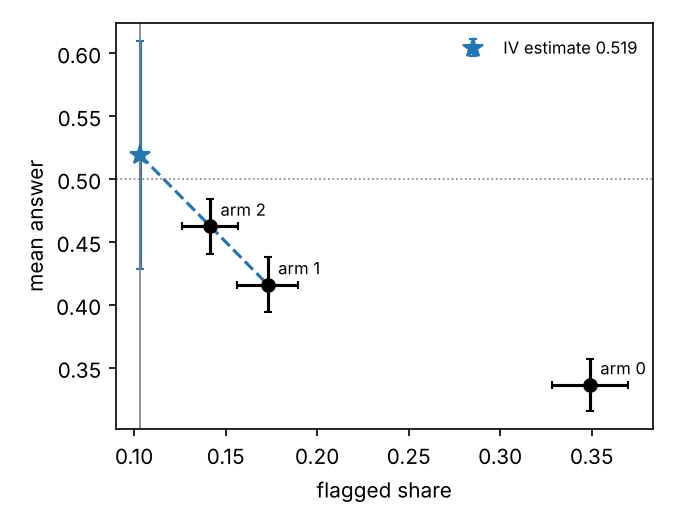
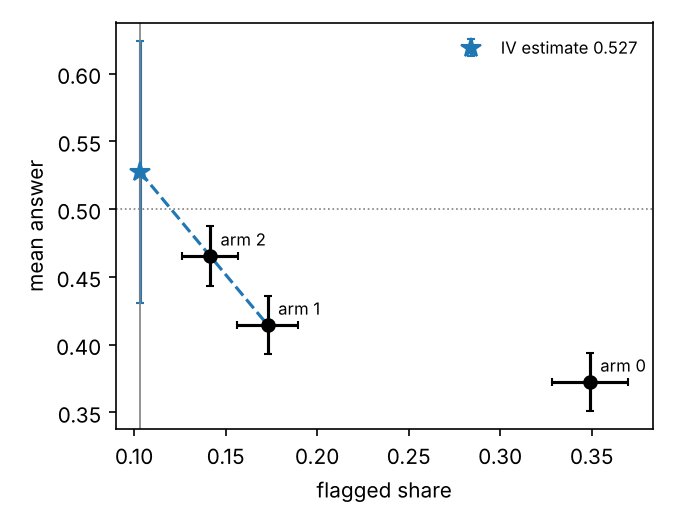
Fix two edge cases, match the paper's numbering, and pin the data version
- bounds: equal mean answers in arms 0 and 1 no longer impose a monotone-response bound
- human_coding_probs: spread the budget again after the caps at 1 and at the floor
- tests/test_edge_cases.py: regression tests for both (16 tests)
- README, docstrings, tutorial, and Lean comments use the paper's numbering
  (Proposition 1, Theorem 1(i)-(iv), Theorem 2, Theorem 3, Lemmas D1, G1, H1)
- download_data.py pins Kaggle version 11 and checks the SHA-256 of the CSV
- regenerate the tutorial output and tests/RESULTS.md

diff --git a/paper/replication/download_data.py b/paper/replication/download_data.py
@@ -1,10 +1,11 @@
-"""Put the Glassdoor reviews (Kaggle davidgauthier/glassdoor-job-reviews) at data/glassdoor_reviews.csv and check
-that the shipped AI answers are in data/ai_answers/.
+"""Put the Glassdoor reviews (Kaggle davidgauthier/glassdoor-job-reviews, version 11) at data/glassdoor_reviews.csv,
+check the file against its SHA-256, and check that the shipped AI answers are in data/ai_answers/.
 
     python3 download_data.py                 # download with kagglehub
     python3 download_data.py --csv FILE      # use a copy of glassdoor_reviews.csv downloaded by hand
 """
 import argparse
+import hashlib
 import shutil
 import sys
 from pathlib import Path
@@ -12,6 +13,8 @@ from pathlib import Path
 HERE = Path(__file__).resolve().parent
 DATA = HERE / "data"
 CSV = DATA / "glassdoor_reviews.csv"
+VERSION = "davidgauthier/glassdoor-job-reviews/versions/11"
[1 lines of base64/hex data omitted]
 AI_FILES = ["references.jsonl.gz", "replacements.jsonl.gz", "twins.jsonl.gz"]
 
 ap = argparse.ArgumentParser()
@@ -23,15 +26,23 @@ if args.csv:
 else:
     try:
         import kagglehub
-        src = Path(kagglehub.dataset_download("davidgauthier/glassdoor-job-reviews")) / "glassdoor_reviews.csv"
+        src = Path(kagglehub.dataset_download(VERSION)) / "glassdoor_reviews.csv"
     except Exception as err:
         sys.exit(f"kagglehub download failed ({err}).\nDownload glassdoor_reviews.csv by hand from "
-                 "https://www.kaggle.com/datasets/davidgauthier/glassdoor-job-reviews and run\n"
+                 "https://www.kaggle.com/datasets/davidgauthier/glassdoor-job-reviews (version 11) and run\n"
                  "    python3 download_data.py --csv /path/to/glassdoor_reviews.csv")
 DATA.mkdir(exist_ok=True)
 if src.resolve() != CSV.resolve():
     shutil.copyfile(src, CSV)
 print(f"reviews: {CSV} ({CSV.stat().st_size / 1e6:.0f} MB)")
+h = hashlib.sha256()
+with open(CSV, "rb") as f:
+    for block in iter(lambda: f.read(1 << 20), b""):
+        h.update(block)
+if h.hexdigest() == SHA256:
+    print("SHA-256 matches version 11")
+else:
+    print(f"warning: SHA-256 {h.hexdigest()} differs from version 11 ({SHA256}); Table 2 may not reproduce")
 
 missing = [f for f in AI_FILES if not (DATA / "ai_answers" / f).exists()]
 if missing:

diff --git a/src/aicontam/coding.py b/src/aicontam/coding.py
@@ -1,4 +1,4 @@
-"""Coding open-ended answers with an LLM, corrected by a random human-coded subset (Lemma coding).
+"""Coding open-ended answers with an LLM, corrected by a random human-coded subset (Lemma H1).
 
 Each answer is sent to a human coder with a known probability pi_i (xi_i = 1 if it was). The
 pseudo-outcome
@@ -19,18 +19,29 @@ def human_coding_probs(z, budget, lam, arms=None, floor=0.02):
 
     The estimate from arms (a, b) is (1 + lam) G_b - lam G_a, so its variance falls fastest
     when pi is proportional to the arm weight: 1 + lam in arm b and lam in arm a. Other arms
-    get `floor`. `budget` is the expected share of all answers coded by humans; `lam` is a
-    pilot value of lambda = (S_b - FPR)/(S_a - S_b).
+    get `floor`. Probabilities are capped at 1 and kept at least `floor`, and the rest of the
+    budget is spread in proportion to the weights, so the mean of pi equals `budget`, the
+    expected share of all answers coded by humans. `lam` is a pilot value of
+    lambda = (S_b - FPR)/(S_a - S_b).
     """
     z = np.asarray(z)
     a, b = arms if arms is not None else (z.max() - 1, z.max())
     w = np.where(z == b, 1 + lam, np.where(z == a, lam, 0.0))
-    pi = np.full(len(z), floor)
-    free = budget * len(z) - floor * np.sum(w == 0)
-    if free <= 0:
-        raise ValueError("budget too small for the floor")
-    pi[w > 0] = np.minimum(1, w[w > 0] * free / w.sum())
-    return np.maximum(pi, floor)
+    lo, hi = floor, np.mean(np.where(w > 0, 1.0, floor))
+    if not lo <= budget <= hi:
+        raise ValueError(f"budget must lie in [{lo:.4f}, {hi:.4f}] for this floor and these arms")
+
+    def probs(c):
+        return np.where(w > 0, np.clip(c * w, floor, 1.0), floor)
+
+    # pi = clip(c w, floor, 1); the mean rises with c, so bisection finds the c that spends the budget.
+    c_lo, c_hi = 0.0, 1.0
+    while probs(c_hi).mean() < budget:
+        c_hi *= 2
+    for _ in range(200):
+        c = (c_lo + c_hi) / 2
+        c_lo, c_hi = (c, c_hi) if probs(c).mean() < budget else (c_lo, c)
+    return probs(c_hi)
 
 
 def draw_human_coding(pi, seed=None):

diff --git a/src/aicontam/bounds.py b/src/aicontam/bounds.py
@@ -1,10 +1,11 @@
-"""Bounds of Theorem 2(ii)-(iv) when the effect of AI is not homogeneous.
+"""Bounds of Theorem 1(ii)-(iv) when the effect of AI is not homogeneous.
 
 (ii) bounded outcome (Manski): needs TPR and a detector that errs at the same rates for
      everyone, whatever the answer. For every arm z,
      E[g(Y(0),X)] in [G_z + alpha_z (g_min - A_z), G_z + alpha_z (g_max - A_z)],
      with alpha_z = (S_z - FPR)/(TPR - FPR) and A_z = (H_z - FPR G_z)/(S_z - FPR), H_z = E[g S | z].
 (iii) monotone treatment response: G_0 < G_1 gives E[g(Y(0),X)] >= G_M, and G_0 > G_1 gives <= G_M.
+     G_0 = G_1 gives no direction, so (iii) bounds nothing.
 (iv) monotone treatment selection (M >= 2): arm M-1 below the line through arms M-2 and M
      gives E[g(Y(0),X)] >= theta_{M-1,M}; above gives <=.
 """
@@ -30,8 +31,9 @@ def _bounds_from_arms(A, fpr, tpr, gmin, gmax):
             Az = (arm.H - fpr * arm.G) / (arm.Sbar - fpr)
             rows[f"(ii) arm {z}"] = (arm.G + alpha * (gmin - Az), arm.G + alpha * (gmax - Az))
     lo, hi = np.full(K, -np.inf), np.full(K, np.inf)
-    up = A[0].G < A[1].G
-    rows["(iii) MTR"] = (np.where(up, A[M].G, -np.inf), np.where(up, np.inf, A[M].G))
+    # Only a strict difference between arms 0 and 1 reveals the direction; equal means bound nothing.
+    up, down = A[0].G < A[1].G, A[0].G > A[1].G
+    rows["(iii) MTR"] = (np.where(up, A[M].G, -np.inf), np.where(down, A[M].G, np.inf))
     if M >= 2:
         a, m, b = A[M - 2], A[M - 1], A[M]
         line = b.G + (a.G - b.G) * (m.Sbar - b.Sbar) / (a.Sbar - b.Sbar)
@@ -77,7 +79,7 @@ class BoundsResult:
 
 def bounds(y, s, z, fpr, tpr=None, gmin=0.0, gmax=1.0, n_boot=0, level=0.95, seed=0,
            categorical=None, categories=None):
-    """Bounds of Theorem 2(ii)-(iv) and their intersection.
+    """Bounds of Theorem 1(ii)-(iv) and their intersection.
 
     With `n_boot > 0`, each endpoint also gets a one-sided bootstrap confidence bound (the
     lower endpoint's lower quantile and the upper endpoint's upper quantile, each at

diff --git a/tests/test_edge_cases.py b/tests/test_edge_cases.py
@@ -1,0 +1,36 @@
+"""Two edge cases: equal means in arms 0 and 1, and a human-coding budget that hits the caps."""
+
+import numpy as np
+import pytest
+
+import aicontam as ac
+
+
+def test_mtr_equal_means_bound_nothing():
+    # Arms 0 and 1 have the same mean answer (0), so Theorem 1(iii) gives no direction.
+    # A population consistent with these moments: alpha_0 = 0.3, alpha_1 = 0.1, the 10% who use
+    # AI in both arms have Y(0) = 1 and Y(1) = 0, everyone else has Y(0) = Y(1) = 0. AI never
+    # raises an answer, yet the truth is 0.1, so (iii) must not cap the target at G_M = 0.
+    n = 1000
+    y = np.zeros(2 * n)
+    z = np.repeat([0, 1], n)
+    s = np.r_[np.arange(n) < 340, np.arange(n) < 180].astype(float)
+    r = ac.bounds(y, s, z, fpr=0.1, tpr=0.9).rows
+    lo, hi = r["(iii) MTR"]
+    assert np.isneginf(lo[0]) and np.isposinf(hi[0])
+    assert np.allclose(np.r_[r["intersection"]], [0.0, 0.1])
+
+
+def test_coding_budget_spent_after_caps():
+    # Probabilities are capped at 1 (first case) or raised to the floor (second case); the rest
+    # of the budget is spread again, so the mean of pi still equals the budget.
+    z = np.repeat([0, 1], 1000)
+    for budget, lam in [(0.9, 1.0), (0.02, 0.01), (0.3, 1.0)]:
+        pi = ac.human_coding_probs(z, budget=budget, lam=lam)
+        assert pi.mean() == pytest.approx(budget, abs=1e-9)
+        assert pi.min() >= 0.02 and pi.max() <= 1
+
+
+def test_coding_budget_out_of_range():
+    with pytest.raises(ValueError):
+        ac.human_coding_probs(np.repeat([0, 1, 2], 100), budget=0.9, lam=1.0)

diff --git a/examples/batball_tutorial.py b/examples/batball_tutorial.py
@@ -17,7 +17,7 @@ plan = ac.plan_sample_size(0.02, alpha=(0.30, 0.05), mu=0.5, ai_mean=0.0, fpr=0.
                            shares=(0.5, 0.5), m=300)
 print("1. Design:", plan)
 
-# Three arms make Theorem 2(iv) and the homogeneity test possible.
+# Three arms make Theorem 1(iv) and the homogeneity test possible.
 z = ac.assign_arms(6000, [1 / 3, 1 / 3, 1 / 3], seed=1)
 print("   arms assigned:", [int((z == a).sum()) for a in range(3)])
 
@@ -37,13 +37,14 @@ print("\n   Is the middle arm on the line? (homogeneity test)\n",
       ac.homogeneity_test(d.wrong, d.flagged, d.arm, n_boot=499))
 
 # The drop from arm 1 to arm 2 is small (t below 3), so the Anderson-Rubin set is the one to
-# report. The middle arm lies below the line, so the curve is convex: Theorem 2(iv) applies.
+# report. The middle arm lies below the line. If beta(v) is monotone, the curve is then
+# convex, and Theorem 1(iv) applies.
 
 # 5. Estimate. The truth is 50% wrong. No correction and deletion are biased downward.
 print("\n5.", ac.friction_iv(d.wrong, d.flagged, d.arm, fpr))
 print("\n   Three methods side by side:\n", ac.compare(d.wrong, d.flagged, d.arm, fpr))
 
-# 6. Bounds that do not assume homogeneity (Theorem 2(ii)-(iv)). In the population of
+# 6. Bounds that do not assume homogeneity (Theorem 1(ii)-(iv)). In the population of
 #    Figure 1 they are [0.49, 0.51]; the ci columns account for sampling noise.
 tpr = ac.Rate(0.9, 300)  # TPR from 300 AI answers
 print("\n6. Bounds:\n", ac.bounds(d.wrong, d.flagged, d.arm, fpr, tpr, n_boot=499))

diff --git a/src/aicontam/estimate.py b/src/aicontam/estimate.py
@@ -1,4 +1,4 @@
-"""The IV estimator of Theorem 2(i), its standard error, and the Anderson-Rubin set (Theorem 3).
+"""The IV estimator of Theorem 1(i), its standard error, and the Anderson-Rubin set (Theorem 2).
 
 Notation follows the paper. Arm z has flagged share S_z and mean answer G_z. The estimate
 from arms a (weaker friction) and b (stronger friction) is the height at FPR of the line
@@ -95,7 +95,7 @@ class IVResult:
 
 
 def friction_iv(y, s, z, fpr, arms=None, level=0.95, categorical=None, categories=None):
-    """IV estimate of the distribution of human answers (Theorem 2(i)).
+    """IV estimate of the distribution of human answers (Theorem 1(i)).
 
     Parameters
     ----------
@@ -130,7 +130,7 @@ def no_correction(y, categorical=None, categories=None):
 
 
 def delete_flagged(y, s, categorical=None, categories=None):
-    """Mean of the answers the detector does not flag (biased: Theorem 1)."""
+    """Mean of the answers the detector does not flag (biased: Proposition 1)."""
     from ._data import outcome_matrix
     Y, labels = outcome_matrix(y, categorical, categories)
     kept = Y[np.asarray(s) == 0]

diff --git a/tests/report.py b/tests/report.py
@@ -65,3 +65,17 @@ truth = np.mean(np.where(c == 1, 0.7, 0.2))
 r = ac.latent_ipw(np.column_stack([target] + other), s, 0.1, 0.9, ai_free=(1, 2, 3), seed=1)
 print(f"- Latent class IPW (truth {100 * truth:.1f}%): IPW {100 * r.ipw[1]:.1f}%, "
       f"delete flagged {100 * target[s == 0].mean():.1f}%, no correction {100 * target.mean():.1f}%")
+
+print("\n## Edge cases\n")
+n = 1000
+y0 = np.zeros(2 * n)
+z0 = np.repeat([0, 1], n)
+s0 = np.r_[np.arange(n) < 340, np.arange(n) < 180].astype(float)
+r0 = ac.bounds(y0, s0, z0, fpr=0.1, tpr=0.9).rows
+lo, hi = r0["intersection"]
+print(f"- Equal means in arms 0 and 1 (both 0, flagged 0.34 and 0.18): no monotone-response bound; "
+      f"intersection [{lo[0]:.2f}, {hi[0]:.2f}], which contains a consistent truth of 0.10")
+zc = np.repeat([0, 1], 1000)
+spent = [f"budget {b} -> mean pi {ac.human_coding_probs(zc, budget=b, lam=l).mean():.4f}"
+         for b, l in [(0.9, 1.0), (0.02, 0.01), (0.3, 1.0)]]
+print("- Human-coding budget after the caps: " + "; ".join(spent))

diff --git a/src/aicontam/datasets.py b/src/aicontam/datasets.py
@@ -28,7 +28,7 @@ def simulate_batball(n=3000, arm_shares=(1 / 3, 1 / 3, 1 / 3), wrong=None, ai_wr
     `flagged` and, for teaching, the hidden columns `type`, `uses_ai`, `wrong_without_ai`.
 
     `wrong` overrides the four types' error rates without AI; equal rates make the effect of
-    AI homogeneous (Theorem 2(i) holds exactly). `arms` takes an assignment from
+    AI homogeneous (Theorem 1(i) holds exactly). `arms` takes an assignment from
     `assign_arms` instead of drawing one from `arm_shares`.
     """
     from .design import assign_arms
@@ -69,7 +69,7 @@ def pre_ai_signals(m=300, fpr=0.1, seed=None):
 
 
 def deletion_bias(y0, y1, w, s):
-    """The two terms of Theorem 1 in data where the potential answers are known (a simulation).
+    """The two terms of Proposition 1 in data where the potential answers are known (a simulation).
 
     Returns (AI answers kept, human answers selected); their sum is the bias of deleting
     flagged answers.

diff --git a/src/aicontam/diagnose.py b/src/aicontam/diagnose.py
@@ -50,9 +50,9 @@ def _gaps(A):
 def homogeneity_test(y, s, z, n_boot=999, seed=0, categorical=None, categories=None):
     """With three or more arms, test that every middle arm lies on the line through its neighbors.
 
-    Under homogeneity (Theorem 2(i)) all arms lie on one line. A gap far from zero rejects it;
-    its sign says whether the curve is convex (arm below) or concave (arm above), which
-    Theorem 2(iv) uses. Standard errors come from a bootstrap within arms.
+    Under homogeneity (Theorem 1(i)) all arms lie on one line. A gap far from zero rejects it.
+    If beta(v) is monotone, its sign says whether the curve is convex (arm below) or concave
+    (arm above), which Theorem 1(iv) uses. Standard errors come from a bootstrap within arms.
     """
     Y, S, z, labels = prepare(y, s, z, categorical, categories)
     if z.max() < 2:

diff --git a/src/aicontam/latent.py b/src/aicontam/latent.py
@@ -1,4 +1,4 @@
-"""Weighting without an instrument: IPW under latent ignorability (Theorem latent, Appendix G).
+"""Weighting without an instrument: IPW under latent ignorability (Theorem 3, Appendix G).
 
 A latent class model treats each participant's class C and AI use W as unobserved. Given the
 state (C, W), the answers to the J questions are independent, and the signal follows the
@@ -9,7 +9,7 @@ holds within a class: the human answer does not depend on W given C. The model i
 
     E[omega_IPW | O_i] = sum_c Pr(W = 0, C = c | O_i) / (1 - e(c)),   e(c) = Pr(W = 1 | C = c),
 
-identifies the distribution of human answers (Theorem latent (b)). This module is a
+identifies the distribution of human answers (Theorem 3(b)). This module is a
 prototype: it handles discrete answers and no covariates (fit it within strata of X).
 """
 

diff --git a/paper/README.md b/paper/README.md
@@ -2,7 +2,7 @@
 
 This folder accompanies *Dealing with AI Contamination in Behavioral Research*. It has two parts.
 
-- `lean/`: a Lean 4 project that checks with Mathlib every result of the paper whose proof is exact algebra or finite probability, and every number in Figure 1.
+- `lean/`: a Lean 4 project that checks with Mathlib the exact algebra and finite-probability steps of the paper's results listed below, and every number in Figure 1. The list after the table gives what is not formalized.
 - `replication/`: the Python code that rebuilds the Glassdoor test bed and reproduces Table 2.
 
 ## Lean
@@ -18,35 +18,35 @@ lake build                      # checks every proof
 lake env lean AxiomAudit.lean   # prints the axioms
 ```
 
-**Model.** The population is a finite set of participant types with weights `p`, so every expectation is a finite sum and every statement is exact. A function `g(Y, X)` enters as real-valued maps, so the results hold for every `g`. A conditional mean is `E[f 1_A] / P(A)` (`Basic.lean`). For Theorem 2, `Curve` lists the participants' resistances `V` with masses `p`, thresholds `r`, and the effects `τ(v)` (on the answer) and `κ(v)` (on the signal). An arm with threshold `a` lets AI write the answers of the participants with `r(v) ≤ a`.
+**Model.** The population is a finite set of participant types with weights `p`, so every expectation is a finite sum and every statement is exact. A function `g(Y, X)` enters as real-valued maps, so the results hold for every `g`. A conditional mean is `E[f 1_A] / P(A)` (`Basic.lean`). For Theorem 1, `Curve` lists the participants' resistances `V` with masses `p`, thresholds `r`, and the effects `τ(v)` (on the answer) and `κ(v)` (on the signal). An arm with threshold `a` lets AI write the answers of the participants with `r(v) ≤ a`.
 
 ### Map from the paper to Lean
 
 | Paper | Lean (namespace `AIC`) | File |
 |---|---|---|
-| Theorem 1, bias of deleting flagged answers (two terms) | `thm1_deletion_bias` | `Thm1Deletion.lean` |
-| Theorem 1, second term with a perfect detector (Appendix B) | `perfect_detector` | `Thm1Deletion.lean` |
-| Arm means under random assignment, and eq. (curve) | `armMean_eq`, `eq_curve` | `Thm2Curve.lean` |
-| Eq. (line), the line through an arm | `Curve.eq_line` | `Thm2Curve.lean` |
-| Theorem 2(i), homogeneity gives `θ_{zz'} = μ` | `Curve.thm2_i`, `Curve.theta_weights`, `Curve.S_strict` | `Thm2Curve.lean` |
-| Lemma setid, eq. (setmom) | `setmom`, `setid`, `setid_adjacent` | `Thm2Curve.lean` |
-| Theorem 2(ii), bound under the detector condition (Lean assumes only the four moments `DetectorRates` that the condition implies) | `thm2_ii` | `Thm2Curve.lean` |
-| Theorem 2(iii), MTR | `Curve.thm2_iii` | `Thm2Curve.lean` |
-| Theorem 2(iv), MTS | `Curve.thm2_iv` | `Thm2Curve.lean` |
-| Theorem 3 (inference): identifying equation `ψ(θ₀)` (`M` in Lean) is zero at the truth, and its form for the bounds | `M_zero_at_truth`, `bound_equation`, `M_linear`, `M_root_iff` | `Thm3Inference.lean` |
-| Theorem 3: gradient for the delta method | `M_gradient`, `thetaHat_gradient` | `Thm3Inference.lean` |
-| Theorem 3: Anderson–Rubin set is a quadratic set, bounded or not | `AR_quadratic`, `quad_set_bounded`, `quad_set_unbounded` | `Thm3Inference.lean` |
-| Lemma balance (Appendix G) | `balance_identity`, `balance_cells`, `balance_unbiased_iff`, `balance_unbiased_iff_wmass` | `Balance.lean` |
-| Theorem latent (a), IPW | `Latent.latent_a`, `Latent.latent_a_unbiased` | `ThmLatent.lean` |
-| Theorem latent (b), expectation given observed data | `Latent.latent_b`, `Latent.latent_b_formula` | `ThmLatent.lean` |
-| Lemma coding (Appendix H) | `coding_a`, `coding_a_arm` | `LemCoding.lean` |
+| Proposition 1, bias of deleting flagged answers (two terms) | `thm1_deletion_bias` | `Thm1Deletion.lean` |
+| Proposition 1, second term with a perfect detector (Appendix B) | `perfect_detector` | `Thm1Deletion.lean` |
+| Arm means under random assignment, and Equation (1) | `armMean_eq`, `eq_curve` | `Thm2Curve.lean` |
+| Equation (C1), the line through an arm | `Curve.eq_line` | `Thm2Curve.lean` |
+| Theorem 1(i), homogeneity gives `θ_{zz'} = μ` | `Curve.thm2_i`, `Curve.theta_weights`, `Curve.S_strict` | `Thm2Curve.lean` |
+| Lemma D1, Equation (D1) | `setmom`, `setid`, `setid_adjacent` | `Thm2Curve.lean` |
+| Theorem 1(ii), bound under the detector condition (Lean assumes only the four moments `DetectorRates` that the condition implies) | `thm2_ii` | `Thm2Curve.lean` |
+| Theorem 1(iii), MTR | `Curve.thm2_iii` | `Thm2Curve.lean` |
+| Theorem 1(iv), MTS | `Curve.thm2_iv` | `Thm2Curve.lean` |
+| Theorem 2 (inference): identifying equation `ψ(θ₀)` (`M` in Lean) is zero at the truth, and its form for the bounds | `M_zero_at_truth`, `bound_equation`, `M_linear`, `M_root_iff` | `Thm3Inference.lean` |
+| Theorem 2: gradient for the delta method | `M_gradient`, `thetaHat_gradient` | `Thm3Inference.lean` |
+| Theorem 2: Anderson–Rubin set is a quadratic set, bounded or not | `AR_quadratic`, `quad_set_bounded`, `quad_set_unbounded` | `Thm3Inference.lean` |
+| Lemma G1 (Appendix G) | `balance_identity`, `balance_cells`, `balance_unbiased_iff`, `balance_unbiased_iff_wmass` | `Balance.lean` |
+| Theorem 3(a), IPW | `Latent.latent_a`, `Latent.latent_a_unbiased` | `ThmLatent.lean` |
+| Theorem 3(b), expectation given observed data | `Latent.latent_b`, `Latent.latent_b_formula` | `ThmLatent.lean` |
+| Lemma H1 (Appendix H) | `coding_a`, `coding_a_arm` | `LemCoding.lean` |
 | Figure 1 example (Appendix D): arms, `θ_{01} = 0.45`, `θ_{12} = 0.49`, slopes, bounds, MTS | `Examples.fig_arms`, `fig_theta`, `fig_slopes`, `fig_manski`, `fig_below`, `fig_mts` | `Examples.lean` |
 
 Not formalized:
 
-- Theorem 3's asymptotic coverage, its uniformity, and the split of the 5% error when the admissible range of the bounds is estimated (Appendix E). These are standard results (Anderson and Rubin 1949, Staiger and Stock 1997, Imbens and Manski 2004), cited in the paper.
-- In Appendix D, the nesting of the Theorem 2(ii) intervals across arms and the sharpness of the interval of arm `M`.
-- The remark in Appendix D that Theorem 2(iii) and (iv) need their conditions only for `v ≤ α_0`. Lean assumes them for every `v`. Its Figure 1 example therefore sets the never-takers' `τ`, which no arm reveals, to 0.
+- Theorem 2's asymptotic coverage, its uniformity, and the split of the 5% error when the admissible range of the bounds is estimated (Appendix E). These are standard results (Anderson and Rubin 1949, Staiger and Stock 1997, Imbens and Manski 2004), cited in the paper.
+- In Appendix D, the nesting of the Theorem 1(ii) intervals across arms and the sharpness of the interval of arm `M`.
+- The remark in Appendix D that Theorem 1(iii) and (iv) need their conditions only for `v ≤ α_0`. Lean assumes them for every `v`. Its Figure 1 example therefore sets the never-takers' `τ`, which no arm reveals, to 0.
 
 ## Replication of Table 2
 

diff --git a/README.md b/README.md
@@ -22,10 +22,10 @@ fpr = ac.estimate_fpr(pre_ai_signals)                    # signals on answers wr
 
 ac.arm_table(y, s, z)                                    # the points of the contamination curve
 ac.first_stage(s, z)                                     # does the friction move the signal?
-iv = ac.friction_iv(y, s, z, fpr)                        # Theorem 2(i), with Wald and AR sets
+iv = ac.friction_iv(y, s, z, fpr)                        # Theorem 1(i), with Wald and AR sets
 print(iv)
 ac.compare(y, s, z, fpr)                                 # no correction vs delete flagged vs IV
-ac.bounds(y, s, z, fpr, tpr, n_boot=999)                 # Theorem 2(ii)-(iv)
+ac.bounds(y, s, z, fpr, tpr, n_boot=999)                 # Theorem 1(ii)-(iv)
 ac.plot_curve(y, s, z, fpr)
 ```
 
@@ -39,12 +39,12 @@ ac.plot_curve(y, s, z, fpr)
 |---|---|---|
 | Design | `assign_arms` randomizes the friction. `plan_sample_size` and `iv_se` give the N for a target standard error. | Section 3 |
 | Detector | `estimate_fpr` uses pre-AI answers and `estimate_tpr` uses AI answers. `threshold_for_fpr` and `flag` turn a detector's scores into signals. | Section 2 |
-| Estimate | `friction_iv` gives the IV estimate from any two arms (default the two strongest), a delta-method standard error, and the Anderson–Rubin set, which stays valid when the first stage is weak. | Theorem 2(i), Theorem 3 |
-| Compare | `no_correction`, `delete_flagged` and `compare`. `deletion_bias` gives the two terms of Theorem 1 in simulated data. | Theorem 1, Table 2 |
+| Estimate | `friction_iv` gives the IV estimate from any two arms (default the two strongest), a delta-method standard error, and the Anderson–Rubin set, which stays valid when the first stage is weak. | Theorem 1(i), Theorem 2 |
+| Compare | `no_correction`, `delete_flagged` and `compare`. `deletion_bias` gives the two terms of Proposition 1 in simulated data. | Proposition 1, Table 2 |
 | Diagnose | `arm_table`, `first_stage`, `homogeneity_test` (is a middle arm on the line?) and `plot_curve`. | Section 3, Figure 1 |
-| Bounds | `bounds` covers bounded outcomes (Manski, needs TPR and a detector that errs at the same rates for every participant and answer), monotone treatment response and monotone treatment selection, plus their intersection and bootstrap confidence bounds. | Theorem 2(ii)–(iv) |
-| AI coding | `human_coding_probs` chooses which answers humans code. `draw_human_coding` draws them. `pseudo_outcome` builds the corrected outcome to pass to `friction_iv`. | Lemma coding |
-| No instrument | `latent_ipw` fits a latent class model and returns IPW weights. It needs at least two questions that AI does not write for the participant (`ai_free`). | Theorem latent |
+| Bounds | `bounds` covers bounded outcomes (Manski, needs TPR and a detector that errs at the same rates for every participant and answer), monotone treatment response and monotone treatment selection, plus their intersection and bootstrap confidence bounds. | Theorem 1(ii)–(iv) |
+| AI coding | `human_coding_probs` chooses which answers humans code. `draw_human_coding` draws them. `pseudo_outcome` builds the corrected outcome to pass to `friction_iv`. | Lemma H1 |
+| No instrument | `latent_ipw` fits a latent class model and returns IPW weights. It needs at least two questions that AI does not write for the participant (`ai_free`). | Theorem 3 |
 | Data | `simulate_batball` gives a simulated survey. `batball_population` gives the exact population of Figure 1. `pre_ai_signals` gives a pre-AI sample. | Figure 1 |
 
 ## Tests
@@ -65,15 +65,17 @@ They also check the following:
 - The planned N gives the planned standard error.
 - The coding correction is unbiased with a bad LLM.
 - The latent class IPW recovers the truth.
+- Equal mean answers in arms 0 and 1 give no monotone-response bound.
+- The human-coding probabilities spend the whole budget after the caps at 1 and at the floor.
 
 ## Scope
 
-This is a prototype. Inference for the bounds uses a bootstrap, not the Anderson–Rubin union of Theorem 3, and `latent_ipw` handles discrete answers without covariates (fit it within strata of X).
+This is a prototype. Inference for the bounds of Theorem 1(ii)–(iv) uses a bootstrap, not the Anderson–Rubin union of Theorem 2. For Theorem 1(i), `friction_iv` gives both Wald and Anderson–Rubin sets. Also, and `latent_ipw` handles discrete answers without covariates (fit it within strata of X).
 
 ## The paper's computational appendix
 
 `paper/` holds what the paper itself needs (see `paper/README.md`).
-- `paper/lean/`: Lean 4 proofs of the theorems and of the numbers in Figure 1.
+- `paper/lean/`: Lean 4 proofs of the exact algebra behind the paper's results and of the numbers in Figure 1. `paper/README.md` lists what is not formalized.
 - `paper/replication/`: the code that rebuilds the Glassdoor test bed and reproduces Table 2.
 
 License: MIT.
